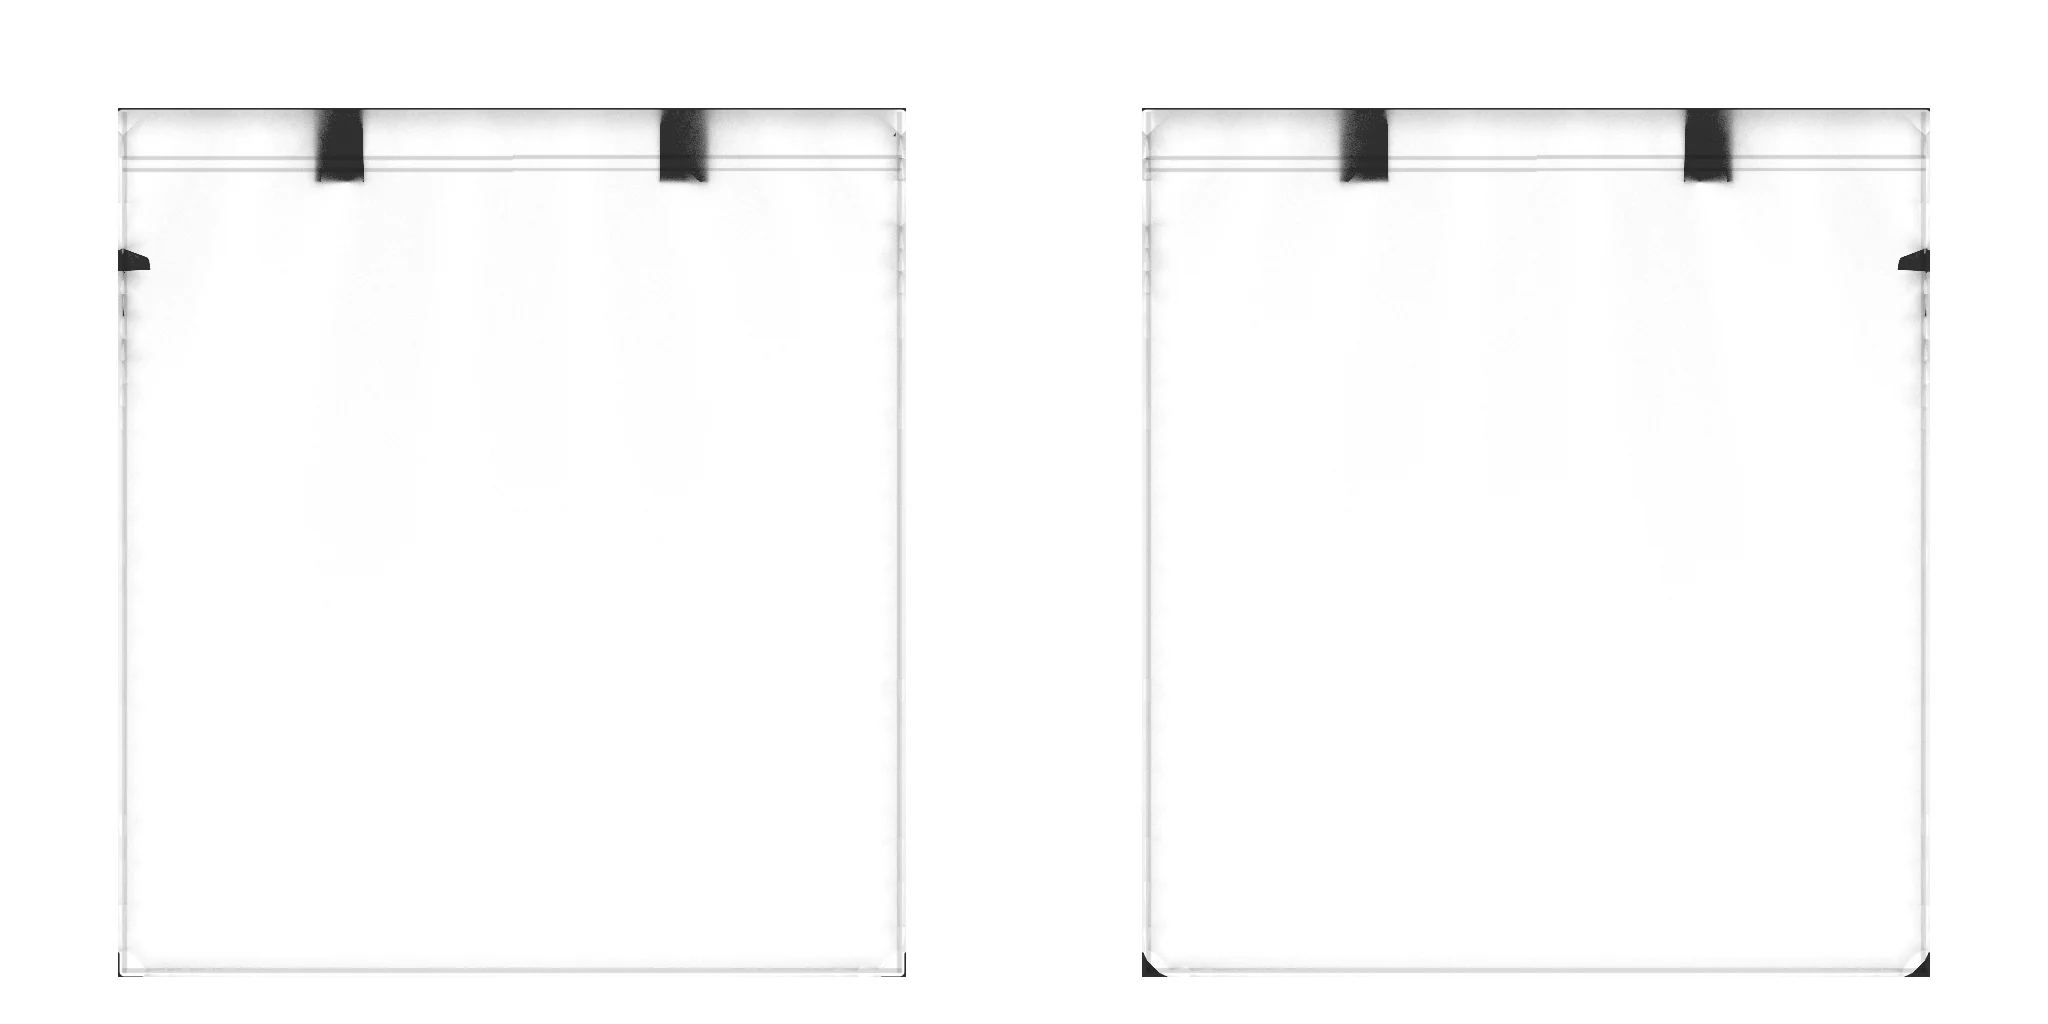
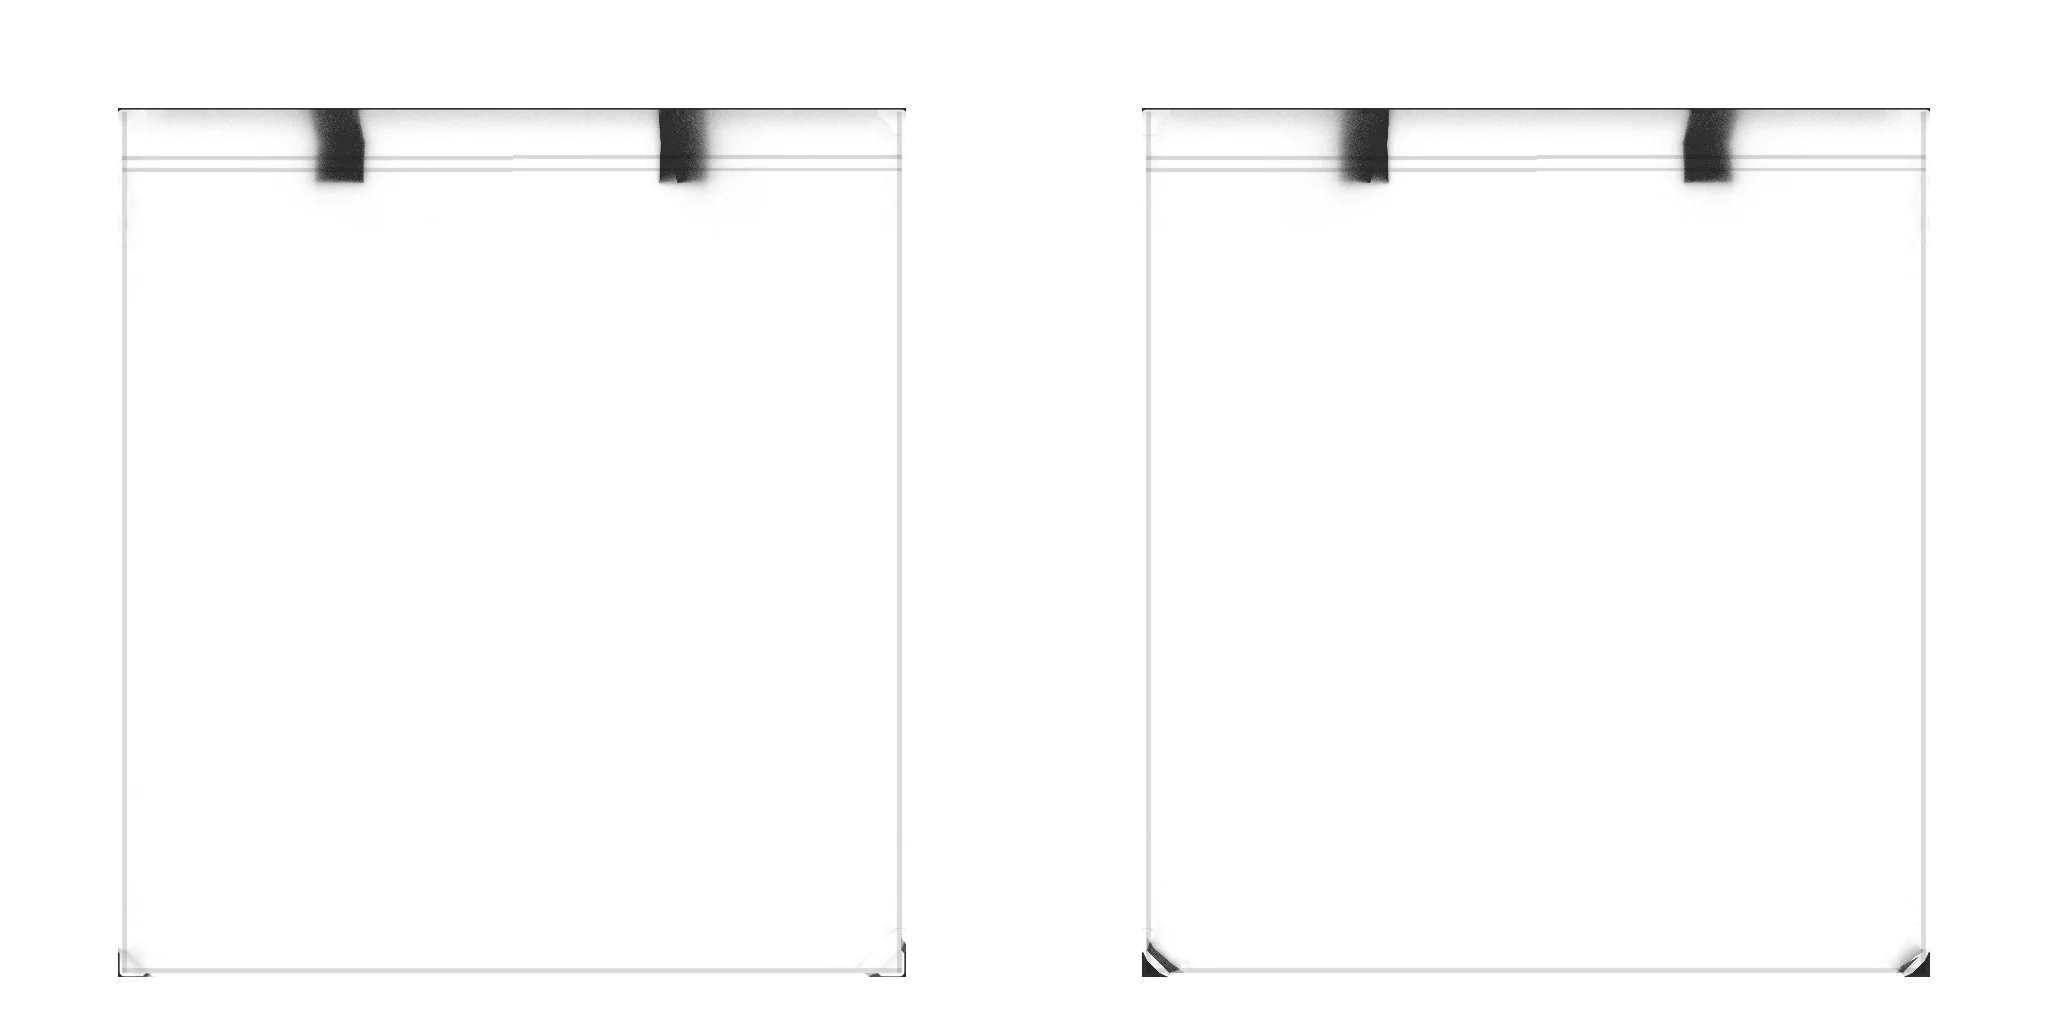
Studio 3D : cadrage et ombre au sol des petits objets, tote bag détendu
Claude-Session: https://claude.ai/code/session_01Poz8jGM7ZDCdSG9TU3Q4t8

diff --git a/apps/web/src/sections/Studio3D.tsx b/apps/web/src/sections/Studio3D.tsx
@@ -100,16 +100,23 @@ function Scene({ model, color, print, place, side, onPlace, zoom, guide, api, on
   const latest = useRef({ place, side, onPlace, hasPrint: !!print })
   latest.current = { place, side, onPlace, hasPrint: !!print }
 
+  const height = bounds.max.y - bounds.min.y
+  // le produit tourne autour du centre de son encombrement (la visière d'une casquette le décale vers l'avant)
+  const centerX = (bounds.min.x + bounds.max.x) / 2
+  const centerZ = (bounds.min.z + bounds.max.z) / 2
+  /** Rayon horizontal : la largeur à cadrer, quel que soit l'angle du plateau. */
+  const radius = Math.hypot((bounds.max.x - bounds.min.x) / 2, (bounds.max.z - bounds.min.z) / 2)
+  const isObject = meta.kind === 'objet'
+  /** Les petits objets se regardent d'un peu plus haut, avec plus d'air autour. */
+  const restEl = isObject ? 0.2 : 0.06
+  /** Distance qui cadre tout le produit, quel que soit le format du cadre. */
+  const fit = () => Math.max((height * (isObject ? 1.08 : 0.66)) / TAN, (radius * (isObject ? 1.12 : 1.28)) / (TAN * (size.width / size.height)))
+
   // changer de côté ramène la vue de trois quarts (le vêtement fait un demi-tour)
   useEffect(() => {
     orbit.current.az = THREE_QUARTER
-    orbit.current.el = 0.06
-  }, [side, model])
-
-  const height = bounds.max.y - bounds.min.y
-  const halfWidth = Math.max(Math.abs(bounds.min.x), Math.abs(bounds.max.x))
-  /** Distance qui cadre tout le vêtement, quel que soit le format du cadre. */
-  const fit = () => Math.max((height * 0.66) / TAN, (halfWidth * 1.28) / (TAN * (size.width / size.height)))
+    orbit.current.el = restEl
+  }, [side, model, restEl])
 
   const setView = (az: number, el: number, dist: number, ty: number) => {
     if (turntable.current) turntable.current.rotation.y = -az
@@ -207,7 +214,7 @@ function Scene({ model, color, print, place, side, onPlace, zoom, guide, api, on
           const shown = guides.map((g) => g.value.w)
           guides.forEach((g) => (g.value.w = 0))
           const base = latest.current.side === 'back' ? Math.PI : 0
-          setView(base + THREE_QUARTER, 0.06, fit(), height * 0.5)
+          setView(base + THREE_QUARTER, restEl, fit(), height * 0.5)
           scene.updateMatrixWorld()
           gl.render(scene, camera)
           const source = gl.domElement
@@ -236,6 +243,7 @@ function Scene({ model, color, print, place, side, onPlace, zoom, guide, api, on
       <StudioLights shadows={shadows} />
       <group ref={turntable}>
       <Product3D
+        position={[-centerX, 0, -centerZ]}
         model={model}
         color={color}
         front={side === 'front' ? layer : null}
@@ -246,7 +254,12 @@ function Scene({ model, color, print, place, side, onPlace, zoom, guide, api, on
         onPointerMove={onMove}
         onPointerOut={() => (gl.domElement.style.cursor = 'grab')}
       />
-      <ContactShadows key={model} position={[0, -0.14, 0]} scale={2.6} blur={2.8} far={1.3} opacity={0.3} frames={1} resolution={512} />
+      {/* un vêtement flotte (présentation « invisible »), un objet est posé : son ombre le touche */}
+      {isObject ? (
+        <ContactShadows key={model} position={[0, -0.001, 0]} scale={radius * 6} blur={2.2} far={height * 1.2} opacity={0.42} frames={1} resolution={512} />
+      ) : (
+        <ContactShadows key={model} position={[0, -0.14, 0]} scale={2.6} blur={2.8} far={1.3} opacity={0.3} frames={1} resolution={512} />
+      )}
       </group>
     </>
   )

diff --git a/tools/models-3d/build_garments.py b/tools/models-3d/build_garments.py
@@ -161,7 +161,8 @@ GARMENTS = {
         body=False,
         gap=0.028,
         pressure=float(os.environ.get('PRESSURE', 2)),
-        slack=0.035,
+        slack=0.02,
+        relax=5,
         ribs=[],
         hems=['hem'],
         handles=True,
@@ -219,6 +220,8 @@ def build(name):
             g.simulate(obj, spec['frames'], gravity_from=1, gravity_full=1, log=lambda f: print('  image', f, round(time.time() - t0, 1), 's', flush=True))
         g.freeze(obj)
         g.weld_seams(obj)
+        if spec.get('relax'):
+            g.relax(obj, spec['relax'])
         bpy.ops.wm.save_as_mainfile(filepath=cached)
     log(name, 'simulation prête, %d sommets' % len(obj.data.vertices), t0)
     if body:

diff --git a/tools/models-3d/garment_lib.py b/tools/models-3d/garment_lib.py
@@ -461,6 +461,18 @@ def freeze(obj):
     obj.data.update()
 
 
+def relax(obj, iterations=4, factor=0.5):
+    """Détend le maillage (lissage doux) : efface les petits froissements serrés, garde les grands plis."""
+    bm = bmesh.new()
+    bm.from_mesh(obj.data)
+    for _ in range(iterations):
+        bmesh.ops.smooth_vert(bm, verts=bm.verts, factor=factor, use_axis_x=True, use_axis_y=True, use_axis_z=True)
+    bm.normal_update()
+    bm.to_mesh(obj.data)
+    bm.free()
+    obj.data.update()
+
+
 def weld_seams(obj):
     """Ferme les coutures : chaque paire de points cousus devient un seul point (les UV restent par pièce)."""
     pairs = list(obj['seam_pairs'])
